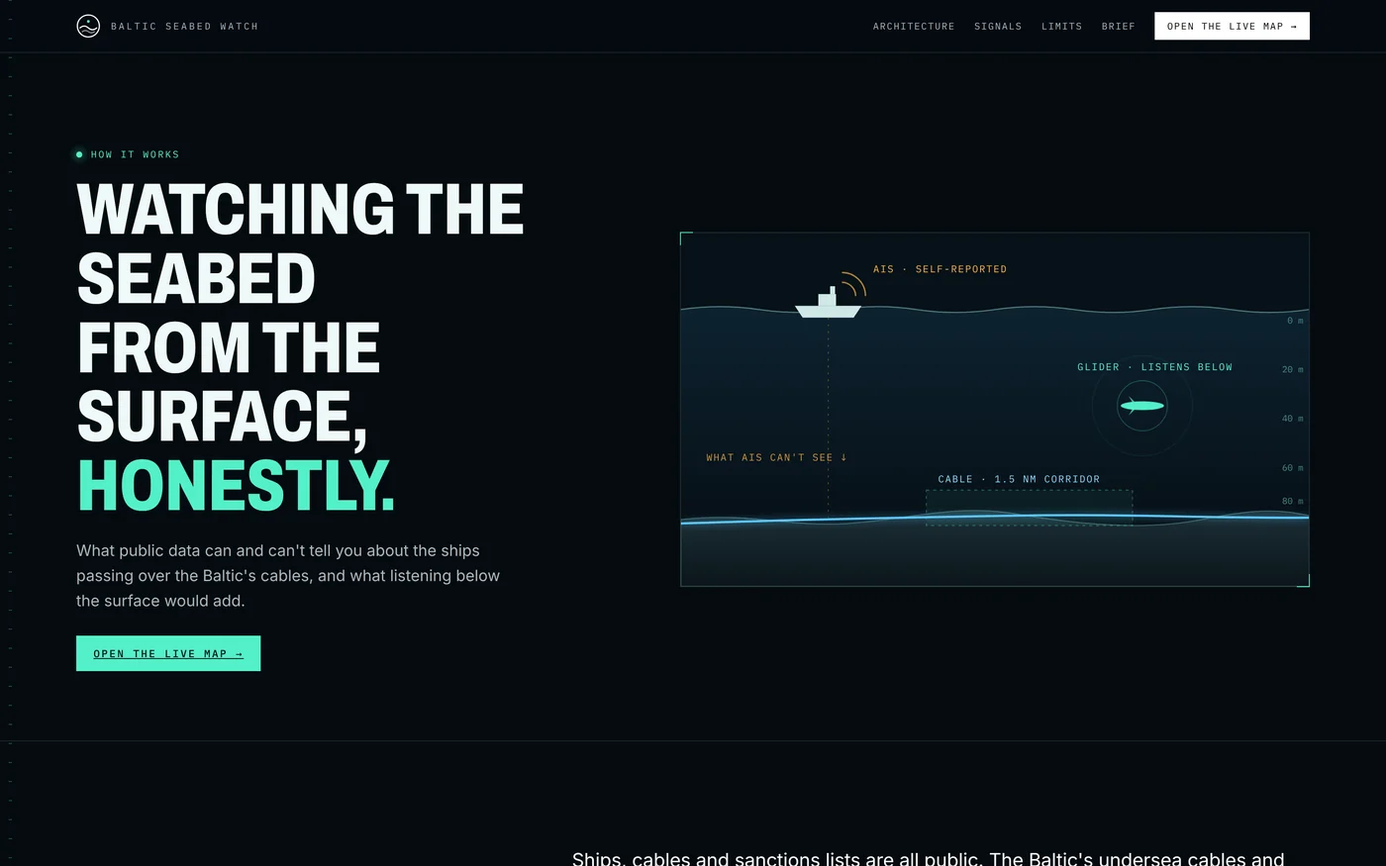
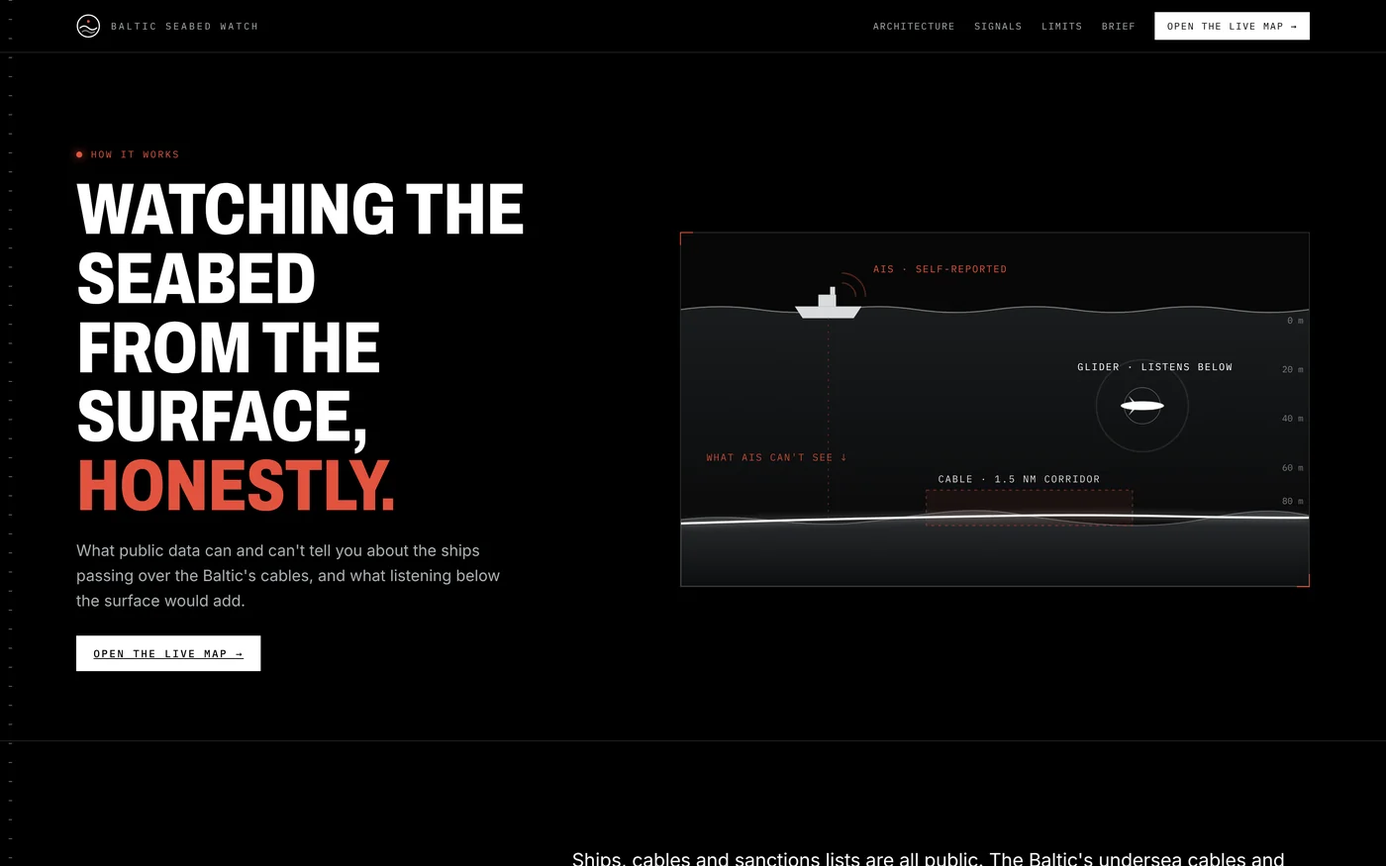
Restore the original landing (grey globe, red-orange stats) with a mint SEABED; Helsing palette on How it works; seamless intro hand-off
- Landing restored to the pre-retune design; SEABED keeps the mint gradient
- How it works keeps its own layout (seabed cross-section, card list) in black/white/red-orange
- Intro: dashboard keeps its final layout under the overlay, so the map is drawn before the swoop;
  flat map skips re-projection when its size is unchanged; map fades in from 60% of the swoop and the
  globe fades out from 80%, so the picture never visibly switches
- README text and all images refreshed

Claude-Session: https://claude.ai/code/session_01QJXv4dQVcK9Y1CKwdFYzkr

diff --git a/web/index.html b/web/index.html
@@ -39,20 +39,17 @@
     @font-face { font-family: 'BSW Mono'; src: url(fonts/plexmono-500.woff2) format('woff2'); font-weight: 500; font-display: swap; }
     /* metric-ish fallbacks so nothing reflows much when the web fonts arrive */
     @font-face { font-family: 'BSW Display Fallback'; src: local('Arial Narrow Bold'), local('ArialNarrow-Bold'), local('Roboto Condensed Bold'), local('DejaVu Sans Condensed Bold'), local('Liberation Sans Narrow Bold'); font-weight: 600 900; size-adjust: 104%; }
-    :root { --ix-accent: #53f0c9; --ix-warm: #ffb547; --ix-sea: #050b10; --ix-dim: rgba(255,255,255,.56); --ix-line: rgba(255,255,255,.16); }
-    html, body { margin: 0; background: #050b10; }
-    .intro { position: fixed; inset: 0; z-index: 1000; overflow: hidden; color: #fff; cursor: pointer; background: radial-gradient(140% 100% at 72% 20%, #0a1620 0%, #050b10 55%, #03070a 100%);
+    :root { --ix-accent: #e2533f; --ix-dim: rgba(255,255,255,.56); --ix-line: rgba(255,255,255,.16); }
+    html, body { margin: 0; background: #000; }
+    .intro { position: fixed; inset: 0; z-index: 1000; overflow: hidden; color: #fff; cursor: pointer; background: #000;
       font-family: Inter, ui-sans-serif, system-ui, -apple-system, 'Segoe UI', Roboto, sans-serif; transition: background .7s ease; }
     html.nohero .intro { display: none; }
-    .intro-globe { position: absolute; inset: 0; width: 100%; height: 100%; display: block; transition: opacity .5s ease; }
+    .intro-globe { position: absolute; inset: 0; width: 100%; height: 100%; display: block; transition: opacity .38s ease; }
     .intro-shade { position: absolute; inset: 0; pointer-events: none;
-      background: radial-gradient(120% 90% at 70% 30%, rgba(5,11,16,0) 40%, rgba(5,11,16,.55) 80%), linear-gradient(90deg, rgba(5,11,16,.78) 0%, rgba(5,11,16,.36) 32%, rgba(5,11,16,0) 52%); }
-    /* left depth-sounding scale: echo-sounder style marks with depths in metres */
-    .intro::before { content: ''; position: absolute; left: 10px; top: 90px; bottom: 30px; width: 4px; z-index: 2; pointer-events: none;
-      background: repeating-linear-gradient(to bottom, rgba(83,240,201,.38) 0 1px, transparent 1px 22px); }
-    .intro-depth { position: absolute; left: 18px; top: 90px; bottom: 30px; z-index: 2; pointer-events: none; display: flex; flex-direction: column; justify-content: space-between;
-      font: 400 9px/1 'BSW Mono', ui-monospace, monospace; letter-spacing: .08em; color: rgba(127, 233, 211, .55); }
-    @media (max-width: 900px) { .intro-depth { display: none; } }
+      background: radial-gradient(120% 90% at 70% 30%, rgba(0,0,0,0) 40%, rgba(0,0,0,.55) 80%), linear-gradient(90deg, rgba(0,0,0,.75) 0%, rgba(0,0,0,.35) 32%, rgba(0,0,0,0) 52%); }
+    /* left tick ruler (as on Clarity) */
+    .intro::before { content: ''; position: absolute; left: 7px; top: 0; bottom: 0; width: 6px; z-index: 2; pointer-events: none;
+      background: repeating-linear-gradient(to bottom, rgba(255,255,255,0) 0 27px, rgba(255,255,255,.55) 27px 28px, rgba(255,255,255,0) 28px 56px); }
     .intro-ui { position: absolute; inset: 0; transition: opacity .35s ease; }
     .ix-mono { font-family: 'BSW Mono', 'IBM Plex Mono', ui-monospace, 'SFMono-Regular', Menlo, Consolas, monospace; }
     /* top strip: mark left, live + menu glyph right */
@@ -77,7 +74,7 @@
     .intro .intro-p { margin: 18px 0 0; font-size: clamp(15px, 1.2vw, 19px); line-height: 1.5; color: rgba(255,255,255,.86); letter-spacing: -.005em; animation: ixFade .8s ease both .5s; }
     .intro-act { display: flex; gap: 12px; align-items: stretch; flex-wrap: wrap; margin-top: 26px; animation: ixFade .8s ease both .65s; }
     .intro-go { font: 500 12px 'BSW Mono', ui-monospace, monospace; letter-spacing: .24em; color: #000; background: #fff; border: 0; padding: 14px 22px; cursor: pointer; transition: background .2s, color .2s; }
-    .intro-go:hover { background: var(--ix-accent); color: #04130f; }
+    .intro-go:hover { background: var(--ix-accent); color: #fff; }
     .intro-go span { margin-left: 12px; }
     .intro .byline { display: inline-flex; align-items: center; gap: 8px; padding: 0 14px; border: 1px solid rgba(169,139,255,.55); background: rgba(169,139,255,.1);
       color: #a98bff; text-decoration: none; font: 400 10.5px 'BSW Mono', ui-monospace, monospace; letter-spacing: .16em; }
@@ -88,7 +85,7 @@
     .intro-stats { position: absolute; left: clamp(24px, 5.5vw, 108px); width: min(860px, 62vw); display: grid; grid-template-columns: repeat(3, 1fr); gap: 28px; animation: ixFade .9s ease both 1.2s; }
     .intro-stats div { border-top: 1px solid rgba(255,255,255,.75); padding-top: 12px; display: flex; flex-direction: column; }
     .intro-stats small { display: block; font: 400 11px/1.35 'BSW Mono', ui-monospace, monospace; letter-spacing: .02em; color: rgba(255,255,255,.85); min-height: 2.7em; }
-    .intro-stats b { display: block; margin-top: auto; padding-top: 10px; font: 400 clamp(26px, 2.6vw, 44px)/1 'BSW Mono', ui-monospace, monospace; letter-spacing: .02em; color: var(--ix-warm); white-space: nowrap; }
+    .intro-stats b { display: block; margin-top: auto; padding-top: 10px; font: 400 clamp(26px, 2.6vw, 44px)/1 'BSW Mono', ui-monospace, monospace; letter-spacing: .02em; color: var(--ix-accent); white-space: nowrap; }
     /* full-width mono subtitle + giant condensed word that bleeds off the bottom */
     .intro-sub { position: absolute; left: clamp(14px, 2.2vw, 40px); right: clamp(14px, 2.2vw, 40px); white-space: nowrap; overflow: hidden;
       font: 300 3.9vw/1 'BSW Mono', 'IBM Plex Mono', ui-monospace, monospace; letter-spacing: .06em; text-transform: uppercase; color: #fff; }
@@ -97,7 +94,7 @@
       font-variation-settings: 'wdth' 62, 'wght' 900; letter-spacing: -.012em; text-transform: uppercase; font-size: 30vw; }
     .intro-word > span { display: inline-block; overflow: hidden; vertical-align: bottom; padding-top: .04em; }
     .intro-word > span > span { display: inline-block; animation: ixUp .95s cubic-bezier(.2,.75,.12,1) both;
-      background: linear-gradient(180deg, #f3fbfa 0%, #e9f7f5 52%, #8fe8d6 100%); -webkit-background-clip: text; background-clip: text; color: transparent; }
+      background: linear-gradient(180deg, #f3fbfa 0%, #e9f7f5 45%, #8fe8d6 100%); -webkit-background-clip: text; background-clip: text; color: transparent; }
     @keyframes ixUp { from { transform: translateY(105%); } to { transform: none; } }
     @keyframes ixFade { from { opacity: 0; transform: translateY(8px); } to { opacity: 1; transform: none; } }
     body.hero-out .intro { background: transparent; pointer-events: none; }
@@ -128,11 +125,10 @@
   <div id="hero" class="intro" aria-label="Baltic Seabed Watch: intro">
     <canvas id="intro-globe" class="intro-globe" aria-hidden="true"></canvas>
     <div class="intro-shade"></div>
-    <div class="intro-depth" aria-hidden="true"><span>0 m</span><span>50 m</span><span>100 m</span><span>150 m</span><span>200 m</span><span>250 m</span><span>300 m</span><span>350 m</span><span>400 m</span><span>450 m</span><span>500 m</span></div>
     <div class="intro-ui">
       <header class="intro-top">
-        <a class="mark" href="./" aria-label="Baltic Seabed Watch"><svg viewBox="0 0 32 32" fill="none" aria-hidden="true"><circle cx="16" cy="16" r="14.5" stroke="#fff" stroke-width="1.6"/><path d="M5 18.5c3.6-3.2 7.4-3.2 11 0s7.4 3.2 11 0" stroke="#fff" stroke-width="1.6" stroke-linecap="round"/><path d="M8 23.5c2.7-2 5.3-2 8 0s5.3 2 8 0" stroke="#fff" stroke-width="1.6" stroke-linecap="round" opacity=".55"/><circle cx="16" cy="10" r="1.8" fill="#53f0c9"/></svg><span>BALTIC SEABED WATCH</span></a>
-        <span class="live"><span><i></i>LIVE · <b data-hero="ships" id="hero-n">—</b> SHIPS</span><span class="opt">UNCLASSIFIED // OPEN SOURCE</span></span>
+        <a class="mark" href="./" aria-label="Baltic Seabed Watch"><svg viewBox="0 0 32 32" fill="none" aria-hidden="true"><circle cx="16" cy="16" r="14.5" stroke="#fff" stroke-width="1.6"/><path d="M5 18.5c3.6-3.2 7.4-3.2 11 0s7.4 3.2 11 0" stroke="#fff" stroke-width="1.6" stroke-linecap="round"/><path d="M8 23.5c2.7-2 5.3-2 8 0s5.3 2 8 0" stroke="#fff" stroke-width="1.6" stroke-linecap="round" opacity=".55"/><circle cx="16" cy="10" r="1.8" fill="#e2533f"/></svg><span>BALTIC SEABED WATCH</span></a>
+        <span class="live"><span><i></i>LIVE · <b data-hero="ships" id="hero-n">—</b> SHIPS</span><span class="opt">UNCLASSIFIED // OPEN SOURCE</span><span class="burger" aria-hidden="true"></span></span>
       </header>
       <div class="intro-bar"><i></i></div>
       <section class="intro-col">
@@ -154,7 +150,7 @@
     </div>
   </div>
   <script>
-    // Fit the giant word inside the page margins, place the subtitle and stats above it,
+    // Fit the giant word to the viewport width (Clarity-style full bleed), place the subtitle and stats above it,
     // stagger the letters, and scramble the mono subtitle in. Runs before first paint; refits when fonts arrive.
     (function () {
       var word = document.getElementById('intro-word'); if (!word) return;
@@ -166,11 +162,10 @@
         var W = innerWidth, H = innerHeight, mob = W < 900;
         word.style.fontSize = '100px';
         var w = word.getBoundingClientRect().width || 1;
-        var M = mob ? 16 : Math.max(24, Math.min(108, W * 0.055)), B = mob ? 18 : Math.max(26, H * 0.045);
-        var fs = 100 * (W - 2 * M) / w;                     // fill the width inside the page margins
+        var fs = 100 * (W + 0.04 * 100) / w;              // fill the width edge to edge
         fs = Math.min(fs, H * (mob ? 0.42 : 0.62));         // keep room above it on short screens
-        word.style.fontSize = fs + 'px'; word.style.left = M + 'px'; word.style.bottom = B + 'px';
-        var top = H - B - fs * 0.8 - fs * 0.02;             // visible top of the caps
+        word.style.fontSize = fs + 'px';
+        var top = H - fs * (0.8 - 0.135) - fs * 0.04;       // visible top of the caps
         var subH = sub.getBoundingClientRect().height;
         sub.style.top = (top - subH - Math.max(10, fs * 0.05)) + 'px';
         var sTop = top - subH - Math.max(10, fs * 0.05) - stats.getBoundingClientRect().height - (mob ? 22 : 34);

diff --git a/web/src/how.css b/web/src/how.css
@@ -145,16 +145,16 @@ main { max-width: 1180px; margin: 0 auto; padding: 0 clamp(16px, 4vw, 56px); }
 @font-face { font-family: 'BSW Mono'; src: url('/fonts/plexmono-400.woff2') format('woff2'); font-weight: 400; font-display: swap; }
 @font-face { font-family: 'BSW Mono'; src: url('/fonts/plexmono-500.woff2') format('woff2'); font-weight: 500; font-display: swap; }
 :root {
-  --bg: #050b10; --fg: #fff; --dim: #a9b8bd; --faint: #7d8c92; --line: rgba(160, 230, 220, 0.14); --line-2: rgba(160, 230, 220, 0.3); --card: #0a141b;
-  --accent: #53f0c9; --mint: #53f0c9;
+  --bg: #000; --fg: #fff; --dim: #a9b0b4; --faint: #7d8589; --line: rgba(255, 255, 255, 0.14); --line-2: rgba(255, 255, 255, 0.3); --card: #0b0c0d;
+  --accent: #e2533f; --mint: #e2533f;
   --mono: 'BSW Mono', 'IBM Plex Mono', ui-monospace, Menlo, Consolas, monospace;
   --display: 'BSW Display', 'Arial Narrow', Impact, 'Roboto Condensed', sans-serif;
-  --ink: #fff; --ink-2: #d6dadc; --ink-3: #a9b0b4; --ink-4: #7d8589; --line-3: rgba(83, 240, 201, 0.6);
+  --ink: #fff; --ink-2: #d6dadc; --ink-3: #a9b0b4; --ink-4: #7d8589; --line-3: rgba(226, 83, 63, 0.6);
 }
 /* left depth-sounding marks */
 body.how::before { content: ''; position: fixed; left: 10px; top: 0; bottom: 0; width: 4px; z-index: 6; pointer-events: none;
-  background: repeating-linear-gradient(to bottom, rgba(83,240,201,.32) 0 1px, transparent 1px 22px); }
-.h-top { background: rgba(5,11,16,.86); border-bottom: 1px solid var(--line); padding: 14px clamp(24px, 5.5vw, 108px); }
+  background: repeating-linear-gradient(to bottom, rgba(255,255,255,.4) 0 1px, transparent 1px 22px); }
+.h-top { background: rgba(0,0,0,.86); border-bottom: 1px solid var(--line); padding: 14px clamp(24px, 5.5vw, 108px); }
 .h-brand { display: inline-flex; align-items: center; gap: 12px; color: var(--fg); }
 .h-brand svg { width: 28px; height: 28px; }
 .h-brand span { font-family: var(--mono); font-size: 11px; letter-spacing: .22em; color: var(--dim); }
@@ -183,7 +183,7 @@ main > section { padding-left: clamp(24px, 5.5vw, 108px); padding-right: clamp(2
 .h-stats { display: grid; grid-template-columns: repeat(3, 1fr); gap: 28px; margin-top: clamp(40px, 7vh, 80px); }
 .h-stats div { border-top: 1px solid rgba(255,255,255,.8); padding-top: 12px; display: flex; flex-direction: column; }
 .h-stats small { font: 400 12px/1.35 var(--mono); color: #fff; min-height: 2.7em; }
-.h-stats b { margin-top: auto; padding-top: 14px; font: 400 clamp(28px, 2.9vw, 46px)/1 var(--mono); letter-spacing: .02em; color: #ffb547; white-space: nowrap; }
+.h-stats b { margin-top: auto; padding-top: 14px; font: 400 clamp(28px, 2.9vw, 46px)/1 var(--mono); letter-spacing: .02em; color: var(--accent); white-space: nowrap; }
 
 /* "puts every public signal to work" + numbered accordion with a screenshot panel */
 .h-work { padding-top: clamp(48px, 9vh, 96px); padding-bottom: clamp(64px, 12vh, 120px); }
@@ -245,17 +245,17 @@ main > section { padding-left: clamp(24px, 5.5vw, 108px); padding-right: clamp(2
 .hx-k { font: 400 11px var(--mono); letter-spacing: .18em; text-transform: uppercase; color: var(--accent); display: flex; align-items: center; gap: 10px; }
 .hx-k i { width: 7px; height: 7px; border-radius: 50%; background: var(--accent); box-shadow: 0 0 10px var(--accent); }
 .hx-title { margin: 18px 0 20px; font: 800 clamp(40px, 5.4vw, 84px)/.95 var(--display); font-stretch: 75%; font-variation-settings: 'wdth' 75, 'wght' 800;
-  letter-spacing: -.01em; text-transform: uppercase; color: #eef9f7; }
+  letter-spacing: -.01em; text-transform: uppercase; color: #fff; }
 .hx-title em { font-style: normal; color: var(--accent); }
 .hx-lead { font-size: clamp(15px, 1.25vw, 18px); line-height: 1.6; color: var(--dim); max-width: 520px; margin: 0 0 26px; }
-.hx-cta { display: inline-block; font: 500 12px var(--mono); letter-spacing: .16em; text-transform: uppercase; color: #04130f; background: var(--accent); padding: 13px 20px; }
-.hx-cta:hover { background: #fff; }
-.hx-fig { margin: 0; position: relative; border: 1px solid var(--line); background: #071118; }
+.hx-cta { display: inline-block; font: 500 12px var(--mono); letter-spacing: .16em; text-transform: uppercase; color: #000; background: #fff; padding: 13px 20px; }
+.hx-cta:hover { background: var(--accent); color: #fff; }
+.hx-fig { margin: 0; position: relative; border: 1px solid var(--line); background: #070707; }
 .hx-fig::before, .hx-fig::after { content: ''; position: absolute; width: 14px; height: 14px; border: 1px solid var(--accent); }
 .hx-fig::before { left: -1px; top: -1px; border-right: 0; border-bottom: 0; }
 .hx-fig::after { right: -1px; bottom: -1px; border-left: 0; border-top: 0; }
 .hx-svg { display: block; width: 100%; height: auto; }
-.hx-cable { filter: drop-shadow(0 0 4px rgba(92, 200, 255, .7)); }
+.hx-cable { filter: drop-shadow(0 0 4px rgba(255, 255, 255, .55)); }
 .hx-ship { animation: hxBob 4s ease-in-out infinite; }
 .hx-ais { animation: hxBlink 2s ease-in-out infinite; }
 .hx-ping { animation: hxPing 3s ease-out infinite; transform-origin: center; transform-box: fill-box; }
@@ -269,13 +269,13 @@ main > section { padding-left: clamp(24px, 5.5vw, 108px); padding-right: clamp(2
 .h-cap { text-transform: none; font: 800 clamp(26px, 2.6vw, 40px)/1.05 var(--display); font-stretch: 75%; font-variation-settings: 'wdth' 75, 'wght' 800; letter-spacing: 0; }
 /* chart-legend list: buoy markers instead of a numbered hairline index */
 .h-acc { border-top: 0; display: flex; flex-direction: column; gap: 8px; }
-.h-acc li { border: 1px solid var(--line); border-bottom: 1px solid var(--line); background: rgba(10, 20, 27, .6); }
+.h-acc li { border: 1px solid var(--line); border-bottom: 1px solid var(--line); background: rgba(255, 255, 255, .02); }
 .h-acc li::before { display: none; }
-.h-acc li.on { border-color: rgba(83, 240, 201, .45); background: rgba(83, 240, 201, .05); }
+.h-acc li.on { border-color: rgba(226, 83, 63, .55); background: rgba(226, 83, 63, .05); }
 .h-acc button { grid-template-columns: 52px 1fr; padding: 14px 14px 14px 0; text-transform: none; letter-spacing: .02em; font-family: Inter, system-ui, sans-serif; font-size: 15px; }
 .h-acc button em { justify-self: center; width: 24px; height: 24px; border-radius: 50%; border: 1px solid var(--accent); color: var(--accent);
   display: grid; place-items: center; font: 500 10px var(--mono); }
-.h-acc li.on button em { background: var(--accent); color: #04130f; }
+.h-acc li.on button em { background: var(--accent); color: #fff; }
 .h-acc-b > p { margin-left: 52px; padding: 0 16px 0 0; min-height: 0; }
 .h-acc li.on .h-acc-b > p { padding-bottom: 16px; }
 .h-shot { position: relative; border: 1px solid var(--line); }

diff --git a/web/how.html b/web/how.html
@@ -25,7 +25,7 @@
 </head>
 <body class="how">
   <header class="h-top">
-    <a class="h-brand" href="./"><svg viewBox="0 0 32 32" fill="none" aria-hidden="true"><circle cx="16" cy="16" r="14.5" stroke="currentColor" stroke-width="1.6"/><path d="M5 18.5c3.6-3.2 7.4-3.2 11 0s7.4 3.2 11 0" stroke="currentColor" stroke-width="1.6" stroke-linecap="round"/><path d="M8 23.5c2.7-2 5.3-2 8 0s5.3 2 8 0" stroke="currentColor" stroke-width="1.6" stroke-linecap="round" opacity=".55"/><circle cx="16" cy="10" r="1.8" fill="#53f0c9"/></svg><span>BALTIC SEABED WATCH</span></a>
+    <a class="h-brand" href="./"><svg viewBox="0 0 32 32" fill="none" aria-hidden="true"><circle cx="16" cy="16" r="14.5" stroke="currentColor" stroke-width="1.6"/><path d="M5 18.5c3.6-3.2 7.4-3.2 11 0s7.4 3.2 11 0" stroke="currentColor" stroke-width="1.6" stroke-linecap="round"/><path d="M8 23.5c2.7-2 5.3-2 8 0s5.3 2 8 0" stroke="currentColor" stroke-width="1.6" stroke-linecap="round" opacity=".55"/><circle cx="16" cy="10" r="1.8" fill="#e2533f"/></svg><span>BALTIC SEABED WATCH</span></a>
     <nav><a href="#architecture">Architecture</a><a href="#signals">Signals</a><a href="#limits">Limits</a><a href="#brief">Brief</a><a class="h-open" href="./"><span class="h-full">Open the live map</span><span class="h-short">Live map</span> →</a></nav>
   </header>
 
@@ -40,26 +40,26 @@
       <figure class="hx-fig">
         <svg class="hx-svg" viewBox="0 0 640 360" role="img" aria-label="Cross-section: a ship on the surface broadcasting AIS, a glider listening mid-water, and a cable on the seabed inside its corridor">
           <defs>
-            <linearGradient id="hxSea" x1="0" y1="0" x2="0" y2="1"><stop offset="0" stop-color="#0d2230"/><stop offset="1" stop-color="#050b10"/></linearGradient>
-            <linearGradient id="hxBed" x1="0" y1="0" x2="0" y2="1"><stop offset="0" stop-color="#1c2f37"/><stop offset="1" stop-color="#0b151a"/></linearGradient>
+            <linearGradient id="hxSea" x1="0" y1="0" x2="0" y2="1"><stop offset="0" stop-color="#1a1c1e"/><stop offset="1" stop-color="#050505"/></linearGradient>
+            <linearGradient id="hxBed" x1="0" y1="0" x2="0" y2="1"><stop offset="0" stop-color="#2a2d30"/><stop offset="1" stop-color="#0c0d0e"/></linearGradient>
           </defs>
           <path d="M0 78 Q40 72 80 78 T160 78 T240 78 T320 78 T400 78 T480 78 T560 78 T640 78 V360 H0 Z" fill="url(#hxSea)"/>
-          <path d="M0 78 Q40 72 80 78 T160 78 T240 78 T320 78 T400 78 T480 78 T560 78 T640 78" fill="none" stroke="rgba(160,230,220,.45)" stroke-width="1.2"/>
-          <path d="M0 292 C70 284 110 300 170 296 S280 276 340 286 S470 304 530 292 S610 282 640 288 V360 H0 Z" fill="url(#hxBed)" stroke="rgba(150,225,214,.35)" stroke-width="1"/>
-          <rect x="250" y="262" width="210" height="36" fill="rgba(83,240,201,.06)" stroke="rgba(83,240,201,.35)" stroke-dasharray="3 4"/>
-          <path d="M0 296 C120 292 220 290 340 288 S540 291 640 290" fill="none" stroke="#5cc8ff" stroke-width="2.2" class="hx-cable"/>
-          <g class="hx-ship" transform="translate(150 60)"><path d="M-34 14 L34 14 L26 26 L-26 26 Z" fill="#cfe9e6"/><rect x="-10" y="2" width="18" height="12" fill="#cfe9e6"/><rect x="2" y="-6" width="5" height="8" fill="#cfe9e6"/>
-            <path d="M14 -10 a14 14 0 0 1 14 14 M14 -20 a24 24 0 0 1 24 24" fill="none" stroke="#ffb547" stroke-width="1.4" class="hx-ais"/></g>
-          <line x1="150" y1="86" x2="150" y2="290" stroke="rgba(255,181,71,.35)" stroke-dasharray="2 5"/>
-          <g class="hx-glider" transform="translate(470 176)"><ellipse rx="22" ry="4.5" fill="#53f0c9"/><path d="M-4 0 L-14 -10 L-8 0 L-14 10 Z" fill="#53f0c9" opacity=".8"/>
-            <circle r="30" fill="none" stroke="rgba(83,240,201,.45)" class="hx-ping"/><circle r="30" fill="none" stroke="rgba(83,240,201,.45)" class="hx-ping hx-ping2"/></g>
+          <path d="M0 78 Q40 72 80 78 T160 78 T240 78 T320 78 T400 78 T480 78 T560 78 T640 78" fill="none" stroke="rgba(255,255,255,.4)" stroke-width="1.2"/>
+          <path d="M0 292 C70 284 110 300 170 296 S280 276 340 286 S470 304 530 292 S610 282 640 288 V360 H0 Z" fill="url(#hxBed)" stroke="rgba(255,255,255,.28)" stroke-width="1"/>
+          <rect x="250" y="262" width="210" height="36" fill="rgba(226,83,63,.07)" stroke="rgba(226,83,63,.45)" stroke-dasharray="3 4"/>
+          <path d="M0 296 C120 292 220 290 340 288 S540 291 640 290" fill="none" stroke="#f2f2f2" stroke-width="2.2" class="hx-cable"/>
+          <g class="hx-ship" transform="translate(150 60)"><path d="M-34 14 L34 14 L26 26 L-26 26 Z" fill="#d9dcde"/><rect x="-10" y="2" width="18" height="12" fill="#d9dcde"/><rect x="2" y="-6" width="5" height="8" fill="#d9dcde"/>
+            <path d="M14 -10 a14 14 0 0 1 14 14 M14 -20 a24 24 0 0 1 24 24" fill="none" stroke="#e2533f" stroke-width="1.4" class="hx-ais"/></g>
+          <line x1="150" y1="86" x2="150" y2="290" stroke="rgba(226,83,63,.4)" stroke-dasharray="2 5"/>
+          <g class="hx-glider" transform="translate(470 176)"><ellipse rx="22" ry="4.5" fill="#fff"/><path d="M-4 0 L-14 -10 L-8 0 L-14 10 Z" fill="#fff" opacity=".8"/>
+            <circle r="30" fill="none" stroke="rgba(255,255,255,.45)" class="hx-ping"/><circle r="30" fill="none" stroke="rgba(255,255,255,.45)" class="hx-ping hx-ping2"/></g>
           <g font-family="'BSW Mono', ui-monospace, monospace" font-size="10" letter-spacing="1.2">
-            <text x="196" y="40" fill="#ffb547">AIS · SELF-REPORTED</text>
-            <text x="404" y="140" fill="#53f0c9">GLIDER · LISTENS BELOW</text>
-            <text x="262" y="254" fill="#8fd8ff">CABLE · 1.5 NM CORRIDOR</text>
-            <text x="26" y="232" fill="rgba(255,181,71,.8)">WHAT AIS CAN'T SEE ↓</text>
+            <text x="196" y="40" fill="#e2533f">AIS · SELF-REPORTED</text>
+            <text x="404" y="140" fill="#ffffff">GLIDER · LISTENS BELOW</text>
+            <text x="262" y="254" fill="#d9dcde">CABLE · 1.5 NM CORRIDOR</text>
+            <text x="26" y="232" fill="rgba(226,83,63,.85)">WHAT AIS CAN'T SEE ↓</text>
           </g>
-          <g font-family="'BSW Mono', ui-monospace, monospace" font-size="9" fill="rgba(127,233,211,.55)" text-anchor="end">
+          <g font-family="'BSW Mono', ui-monospace, monospace" font-size="9" fill="rgba(255,255,255,.45)" text-anchor="end">
             <text x="634" y="92">0 m</text><text x="634" y="142">20 m</text><text x="634" y="192">40 m</text><text x="634" y="242">60 m</text><text x="634" y="276">80 m</text>
           </g>
         </svg>

diff --git a/web/src/styles.css b/web/src/styles.css
@@ -559,10 +559,10 @@ body.hero-out .hero { opacity: 0; pointer-events: none; }
 .hero-bar i { display: block; height: 100%; background: var(--mint); width: 0; animation: heroBar 5.2s linear forwards; box-shadow: 0 0 8px var(--mint); }
 @keyframes heroBar { to { width: 100%; } }
 
-body.hero-on #app { grid-template-areas: "globe globe globe" "globe globe globe" "globe globe globe" "globe globe globe"; padding: 0; gap: 0; }
+/* During the intro the dashboard keeps its FINAL layout underneath the overlay (panels just invisible), so the flat
+   map is laid out and fully drawn before the swoop: nothing reflows or re-renders at the hand-off. */
 body.hero-on .topbar, body.hero-on .col-left, body.hero-on .col-right, body.hero-on .bottom, body.hero-on .foot,
-body.hero-on .tabs, body.hero-on .legend, body.hero-on .hud, body.hero-on .brk, body.hero-on .sheet { display: none; }
-body.hero-on .frame { border: 0; border-radius: 0; }
+body.hero-on .tabs, body.hero-on .legend, body.hero-on .hud, body.hero-on .brk, body.hero-on .sheet { visibility: hidden; }
 body.hero-out .topbar, body.hero-out .col, body.hero-out .bottom, body.hero-out .foot, body.hero-out .tabs, body.hero-out .hud, body.hero-out .legend { animation: rise .7s cubic-bezier(.2,.7,.2,1) .75s both; }
 body.hero-out .col-left { animation-delay: .85s; } body.hero-out .col-right { animation-delay: .9s; } body.hero-out .bottom { animation-delay: 1s; }
 @keyframes rise { from { opacity: 0; transform: translateY(8px); } to { opacity: 1; transform: none; } }
@@ -876,6 +876,7 @@ body.hero-on .mapctl { display: none; }
 /* intro uses a canvas globe (heroglobe.js); Cesium only for 3D GLOBE mode */
 body.hero-on .ring { display: none; }
 body.hero-swoop #flat { opacity: 0; transition: none; }
+#flat { transition: opacity .45s ease; }
 
 @media (prefers-reduced-motion: reduce) {
   *, *::before, *::after { animation-duration: 0.001ms !important; animation-iteration-count: 1 !important; transition-duration: 0.001ms !important; }

diff --git a/web/src/main.js b/web/src/main.js
@@ -1122,16 +1122,24 @@ function exitHero() {
   flat.resize(); buildRing(); // lay the dashboard out first so the swoop targets the final frame
   flat.flyRegion('BALTIC', 0);
   const hero = $('#hero');
+  // Overlap the hand-off with the end of the swoop: the finished flat map fades in underneath from ~60%,
+  // and the globe fades away from ~80%, so there's never a moment where the picture visibly "switches".
+  const SWOOP = 1400;
+  const revealMap = () => document.body.classList.remove('hero-swoop');
+  const fadeGlobe = () => hero?.classList.add('done');
   const finish = () => {
+    if (introDone) return;
     introDone = true;
-    hero?.classList.add('done'); // canvas fades out while the flat map fades in underneath
-    document.body.classList.remove('hero-swoop');
-    setTimeout(() => { document.body.classList.remove('hero-out'); heroGlobe?.destroy(); heroGlobe = null; hero?.remove(); }, 550);
+    revealMap(); fadeGlobe();
+    setTimeout(() => { document.body.classList.remove('hero-out'); heroGlobe?.destroy(); heroGlobe = null; hero?.remove(); }, 450);
     maybeOfferTour();
   };
   const r = $('#flat').getBoundingClientRect();
-  if (heroGlobe && !REDUCED) heroGlobe.swoop(r, FLAT_VIEW, { duration: 1400, pad: Math.min(r.width, r.height) * 0.04, clip: true, done: finish });
-  else finish();
+  if (heroGlobe && !REDUCED) {
+    heroGlobe.swoop(r, FLAT_VIEW, { duration: SWOOP, pad: Math.min(r.width, r.height) * 0.04, clip: true, done: finish });
+    setTimeout(revealMap, SWOOP * 0.6);
+    setTimeout(fadeGlobe, SWOOP * 0.8);
+  } else finish();
 }
 setViewMode('flat', { fly: false });
 if (params.has('nohero')) {

diff --git a/web/src/heroglobe.js b/web/src/heroglobe.js
@@ -5,10 +5,10 @@
 import { geoOrthographic, geoPath, geoGraticule10, geoArea, geoInterpolate } from 'd3-geo';
 
 const CENTER = [20.4, 58.6]; // Baltic
-// Deep-sea tones: dark slate-teal land on a navy sea; the live Baltic data is the main point of colour.
+// Near-monochrome (Clarity-style smoky greys); the live Baltic data is the one point of colour.
 const COL = {
-  ocean0: '#0f1d27', ocean1: '#03080c', land: '#22343c', coast: 'rgba(150, 225, 214, 0.32)', grat: 'rgba(127, 233, 211, 0.05)',
-  limb: 'rgba(120, 210, 220,', ring: 'rgba(170, 235, 225,', telecom: 'rgba(92, 200, 255,', power: 'rgba(169, 139, 255,', pipeline: 'rgba(255, 181, 71,',
+  ocean0: '#17191c', ocean1: '#040506', land: '#2b2f33', coast: 'rgba(228, 232, 236, 0.30)', grat: 'rgba(255, 255, 255, 0.045)',
+  limb: 'rgba(215, 222, 230,', ring: 'rgba(235, 238, 240,', telecom: 'rgba(92, 200, 255,', power: 'rgba(169, 139, 255,', pipeline: 'rgba(255, 181, 71,',
   ship: 'rgba(240, 245, 245, 0.9)', listed: '#ff5fd2', alert: '#ffb547', incident: '#ff5a6a',
 };
 // Flat-map colours the swoop blends into, so the cross-fade lands seamlessly.

diff --git a/web/src/flatmap.js b/web/src/flatmap.js
@@ -86,8 +86,12 @@ export function createFlatMap(container) {
 
   const P = (lon, lat) => projection([lon, lat]);
 
-  function fit() {
+  let lastW = -1, lastH = -1;
+  function fit(force = false) {
     const r = container.getBoundingClientRect();
+    // Skip the (expensive) re-projection when the size hasn't changed: avoids a visible re-render at the intro hand-off.
+    if (!force && Math.round(r.width) === lastW && Math.round(r.height) === lastH) return;
+    lastW = Math.round(r.width); lastH = Math.round(r.height);
     W = Math.max(1, r.width); H = Math.max(1, r.height); DPR = Math.min(2, window.devicePixelRatio || 1);
     canvas.width = Math.round(W * DPR); canvas.height = Math.round(H * DPR);
     canvas.style.width = W + 'px'; canvas.style.height = H + 'px';

diff --git a/README.md b/README.md
@@ -1,5 +1,5 @@
 <p align="center">
-  <img src="docs/readme/hero.webp" alt="Baltic Seabed Watch landing screen: a huge SEABED wordmark over a deep-sea globe with live Baltic ship and cable data, a depth scale and live figures" width="900">
+  <img src="docs/readme/hero.webp" alt="Baltic Seabed Watch landing screen: a huge mint SEABED wordmark over a greyscale globe with live Baltic ship and cable data and live figures" width="900">
 </p>
 
 # Baltic Seabed Watch
